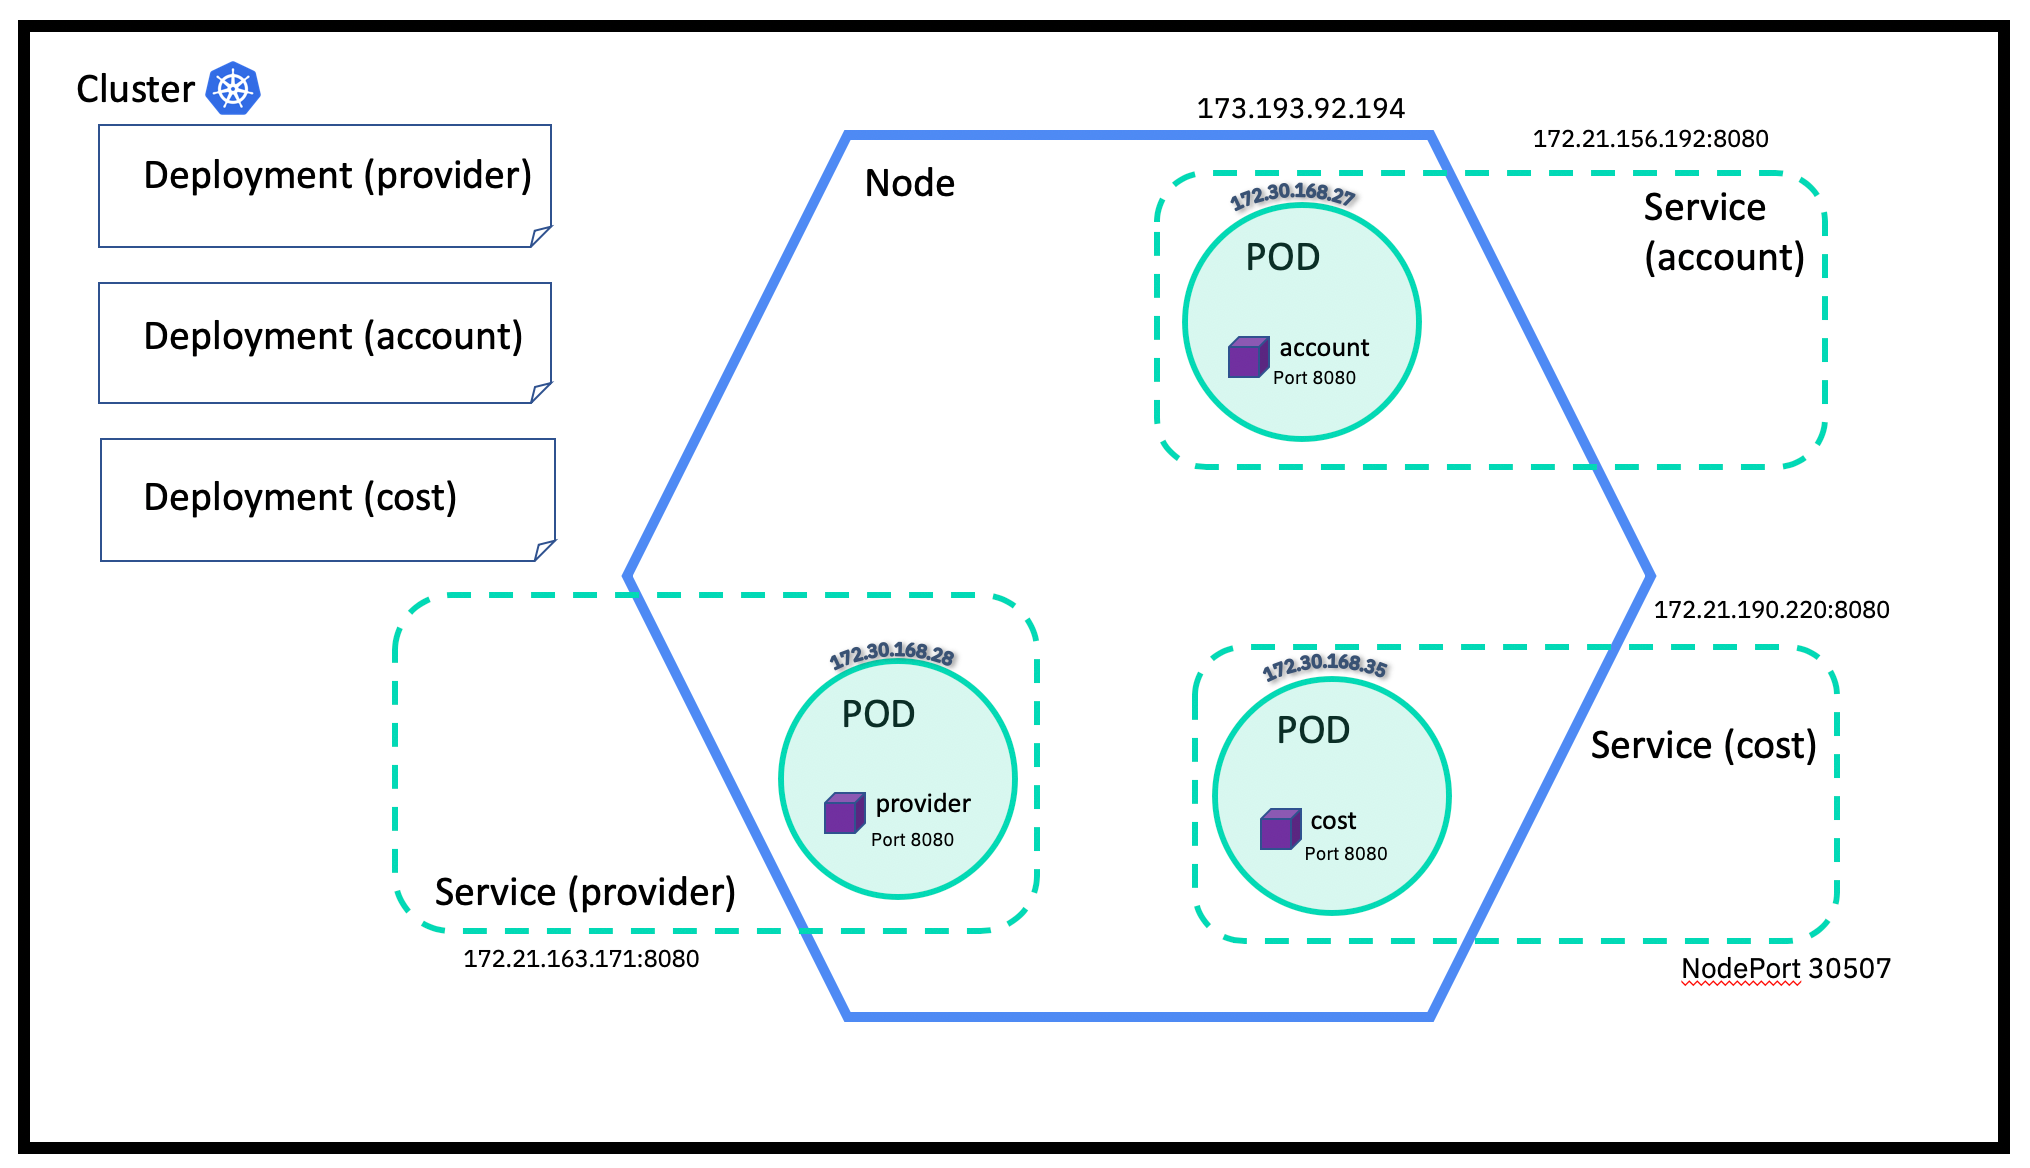
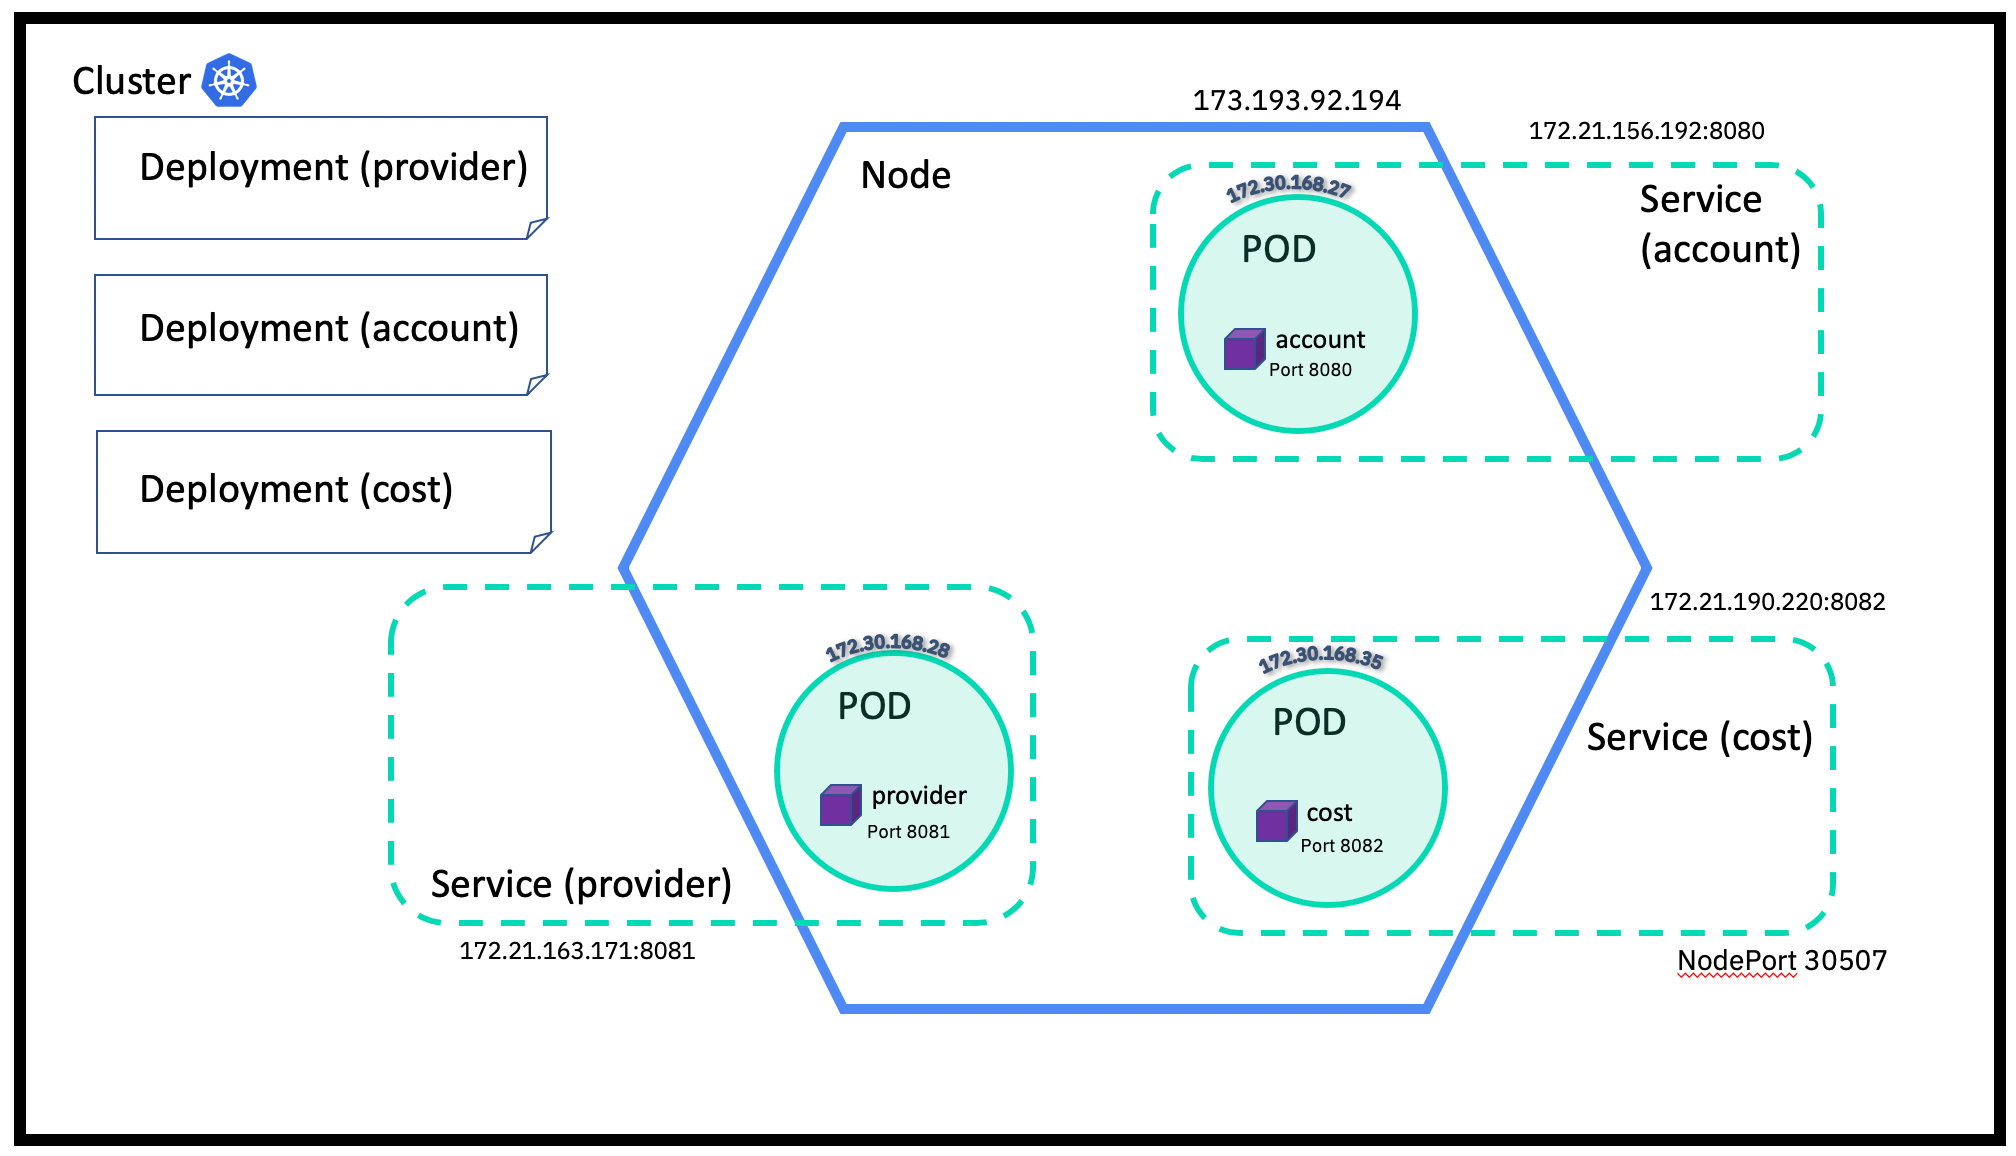
Update spelling, image

diff --git a/02-kubernetes-service-creation/02-kubernetes-service-creation.md b/02-kubernetes-service-creation/02-kubernetes-service-creation.md
@@ -62,7 +62,7 @@ Each project
 
 This is essentially the docker command (www.docker.com), but pushes the images to the IBM Cloud Container Registry.  The images are built with the corresponding Dockerfile and contains
 all of the necessary software packages needed to run the microservices (eg. NodeJs, business logic).  By creating an image, it allows us the flexibility of reusing it to deploy several
-times without needing to recompile the code.  This is the first time submitting these image repositories so we will provide it with a tag "1".  Ensure you specify the trailing "." 
+times without needing to recompile the code.  This is the first time we are submitting these image repositories so we will provide it with an initial tag "1".  Ensure you specify the trailing "." 
 which references the location of the Dockerfile.
 
     cd cascon-2019-kubernetes-apimanager/02-kubernetes-service-creation
@@ -88,8 +88,8 @@ You should see the three additional images listed using this command.
 ## Kubernetes Nodes
 
 In Kubernetes images are not directly specified to go into containers and deployed to be accessed directly.  Instead, a desired state is specified and is managed by 
-Kubernetes to deploy using the workers (VM or physical machines) that have been allocated to your cluster.  The IBM Cloud Free Tier allocates a single worker, so 
-everything will be deployed there.  You can see the works that have been allocated from either the ibmcloud or kubectl CLI.
+Kubernetes to deploy using the node/workers (VM or physical machines) that have been allocated to your cluster.  The IBM Cloud Free Tier allocates a single worker, so 
+everything will be deployed there.  You can see the workers that have been allocated by using either the ibmcloud or kubectl CLI.
 
     ibmcloud ks workers <clusterId>
     kubectl get nodes -o wide
@@ -97,9 +97,9 @@ everything will be deployed there.  You can see the works that have been allocat
 ## Kubernetes Namepaces
 
 Before we begin we should set up a Kubernetes Namespace.  This allows us to group all our Kubernetes objects together under our project, and separate
-them from other potential projects on the same cluster.  By default, the 'default' namespace is used, but by using a custom one, it gives us 
+them from other potential projects on the same cluster.  By default, the *default* namespace is used, but by using a custom one, it gives us 
 flexibility in managing it later.  When we use a non-default namespace, we need to migrate all the secrets over so that the tokens use to authenticate
-agains the Cloud Container Register are available when we pull images.
+against the Cloud Container Register are available when we pull images.
 
 1. Create a Kubernetes Namespace and use it in the current context.
 
@@ -133,7 +133,6 @@ so that the correct secret is used.  Update the account deployment.
 
 When the editor opens add the *imagePullSecrets* and the name as below:
 
-    ```
     spec:
       containers:
       - image: us.icr.io/cas2019/account:1
@@ -145,7 +144,6 @@ When the editor opens add the *imagePullSecrets* and the name as below:
       dnsPolicy: ClusterFirst
       imagePullSecrets:
       - name: default-us-icr-io
-    ``` 
 
 1. Repeat the steps for the provide and cost
 
@@ -179,7 +177,7 @@ Each pod is ephemeral, so using the IP address will only be valid for as long as
 
 Notice the original pod name/IP may result in a terminated status, but a new pod will spawn, and a new IP is assigned to it.  Kubernetes attempts to provide you the pod
 specified in the deployment that you created earlier automatically.  This also happens if your container fails (eg. due to a software glitch), and will continue 
-forever to maintain a running deployment.
+forever in attempting to maintain a running deployment.
 
 If you make a mistake in creating your deployment, you can also remove deployments using the command.
 
@@ -202,8 +200,8 @@ Press Ctrl-C to end the tail of the log.
 
 As the pods have dynamically assigned private IPs that can change at any time, it would be difficult to expose them to the outside world without telling the user
 what the updated host and port is.  To resolve this, kubernetes provides *services*, an interface that sits in front of pods.  Its job is to give a unique name
-that others can reference which it will direct into an available pod.  If a new pod has generated, the service will be aware of it, and direct traffic there.  The port
-specified below should match what each application port it is listening on.
+that others can reference which it will allow traffic to be served by an available pod.  If a new pod has generated or terminatin, the service will be aware of it, and 
+direct traffic appropriately.  The port specified below should match what each application port it is listening on.
 
 1. Create Services for the *account* and *provider* services as internal services.
 
@@ -213,7 +211,7 @@ specified below should match what each application port it is listening on.
     ```
 
 The services above were defined as "ClusterIP" which means that they are only exposed internally, and not available externally by default.  As we are considering them backend
-microservices, this is fine.
+microservices, this is a good default type to use.
 
 We will expose the last service externally using a service of type NodePort, which will assign it an external port number.
 
@@ -230,7 +228,8 @@ We will expose the last service externally using a service of type NodePort, whi
     kubectl get deployments -o wide
     ```
 
-You should notice that all of the services have assigned internal cluster IPs.  The external port is shown in the 30000+ range.
+You should notice that all of the services have internal cluster IPs assigned.  The external port is shown in the 30000+ range for the cost service which the NodePort type
+provides.  
 
 ## DNS support for Services and Pods
 
@@ -244,8 +243,8 @@ For instance, the *account* service can be accessed via any of the following hos
     account-service.default
     account-service
 
-The running containers are built upon a small unix image which are running NodeJs listening on specific ports.  However it is also possible to create a session 
-with the container using an interactive shell.  Lets start a session within a container so we can see the kube-dns in action.
+The running application containers are built upon a small unix image which are running NodeJs listening on specific ports.  However it is also possible to create a session 
+with the container using an interactive shell.  Lets start a session with it so we can see the kube-dns in action.
 
 1. Locate the cost pod name and create a shell.
     ```
@@ -276,10 +275,13 @@ used by our code in the *cost* microservice.
 
 In our steps above, the *cost* pod was created during the deployment creation, but the service creation for *account* and *provider* was done afterwards.  This means that the current 
 *cost* pod is not directly aware of the 2 new services that were created as we do not see any entries in the environment variables.  The code in cost/app.js could have made
-a hard reference to http://account-service.default.svc:8080/ and http://provider-service.default.svc:8080/ but that would rely on the service port being defined as 8080 in the expose command.  
-The NodeJs code in app.js currently references:
+a hard reference to http://account-service.default.svc:8080/ and http://provider-service.default.svc:8081/ but that would rely on the services' port being defined as 8080/8081 
+in the expose command.  The NodeJs code in app.js currently references:
 
-    'http://' + process.env.ACCOUNT_SERVICE_SERVICE_HOST + ':' + process.env.ACCOUNT_SERVICE_SERVICE_PORT
+    process.env.ACCOUNT_SERVICE_SERVICE_HOST
+    process.env.ACCOUNT_SERVICE_SERVICE_PORT
+    process.env.PROVIDER_SERVICE_SERVICE_HOST
+    process.env.PROVIDER_SERVICE_SERVICE_PORT
 
 The developer and kubernetes administrator should only need to agree upon the service name, and allow the service port to be defined by the administrator.  The development team
 can listen on any port (eg. 80 or 9876) for their own application and code changes would not be necessary while it is being deployed.  The account and provider applications also do not need
@@ -473,3 +475,5 @@ work in the same way, but the values are usually passwords or tokens that should
    kubectl exec -it dep-account-??? -- /bin/sh
    printenv
    ```
+
+You should see the environment variables for value1 and value2.
